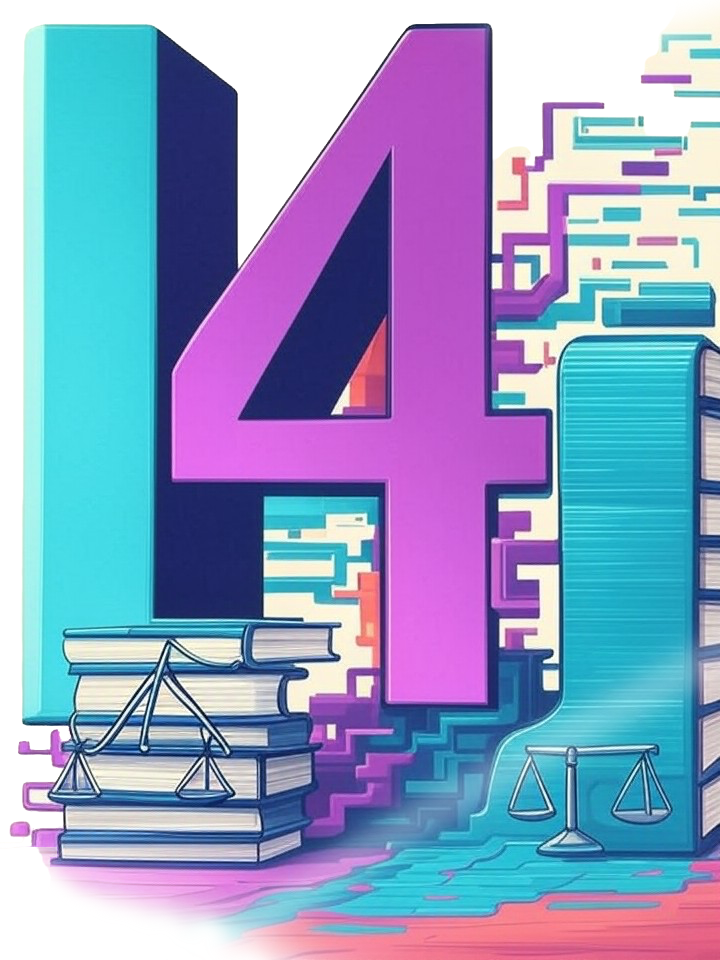
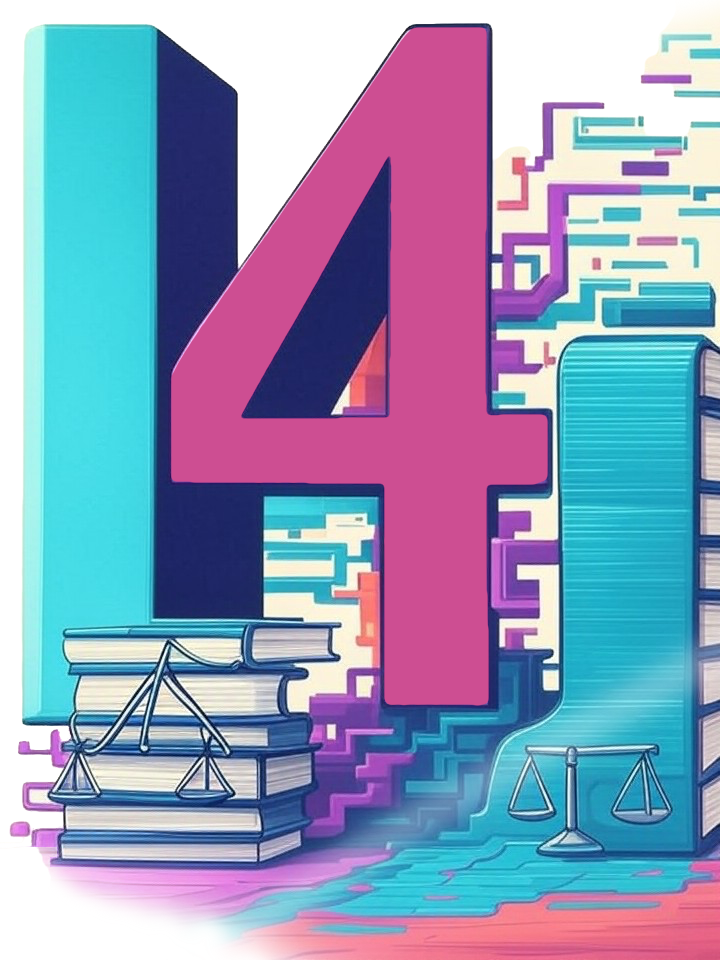
Responsive fix

Changed region(s): [[0.2139, 0.0312, 0.7639, 0.75]]

diff --git a/src/app/page.tsx b/src/app/page.tsx
@@ -20,16 +20,18 @@ export default function Index() {
         
         {/* Hero Section */}
         <section className="mb-4">
-          <div 
-            className="flex flex-col lg:flex-row items-center gap-12 bg-amber-50 rounded-2xl"
-            style={{
-              backgroundImage: 'url(/assets/images/hero.png)',
-              backgroundPosition: 'right center',
-              backgroundRepeat: 'no-repeat',
-              backgroundSize: 'contain',
-            }}
-          >
-            <div className="lg:w-2/3 p-24">
+          <div className="relative flex flex-col lg:flex-row items-center gap-12 bg-amber-50 rounded-2xl overflow-hidden">
+            {/* Background image - hidden on mobile/tablet */}
+            <div 
+              className="hidden lg:block absolute inset-0"
+              style={{
+                backgroundImage: 'url(/assets/images/hero.png)',
+                backgroundPosition: 'right center',
+                backgroundRepeat: 'no-repeat',
+                backgroundSize: 'contain',
+              }}
+            />
+            <div className="relative lg:w-2/3 p-24">
               <h1 className="text-5xl md:text-7xl font-bold tracking-tighter leading-tight mb-6">
                 Software is<br />
                 <span className="text-accent">eating law</span>
@@ -43,7 +45,7 @@ export default function Index() {
                   href="https://l4.legalese.com" 
                   target="_blank" 
                   rel="noopener noreferrer"
-                  className="bg-rose-700 text-white px-8 py-3 rounded-lg font-medium hover:bg-rose-800 transition-colors"
+                  className="bg-accent text-white px-8 py-3 rounded-lg font-medium hover:bg-accent-hover transition-colors"
                 >
                   Explore L4
                 </a>
@@ -239,7 +241,7 @@ else {
           <div className="flex flex-wrap justify-center gap-4">
             <Link 
               href="/community"
-              className="bg-rose-700 text-white px-8 py-3 rounded-lg font-medium hover:bg-rose-800 transition-colors"
+              className="bg-accent text-white px-8 py-3 rounded-lg font-medium hover:bg-accent-hover transition-colors"
             >
               Join the Community
             </Link>

diff --git a/tailwind.config.ts b/tailwind.config.ts
@@ -18,7 +18,7 @@ const config: Config = {
       },
       colors: {
         accent: {
-          DEFAULT: "#923047",
+          DEFAULT: "#c8376aff",
           hover: "#7a2839",
         },
       },
